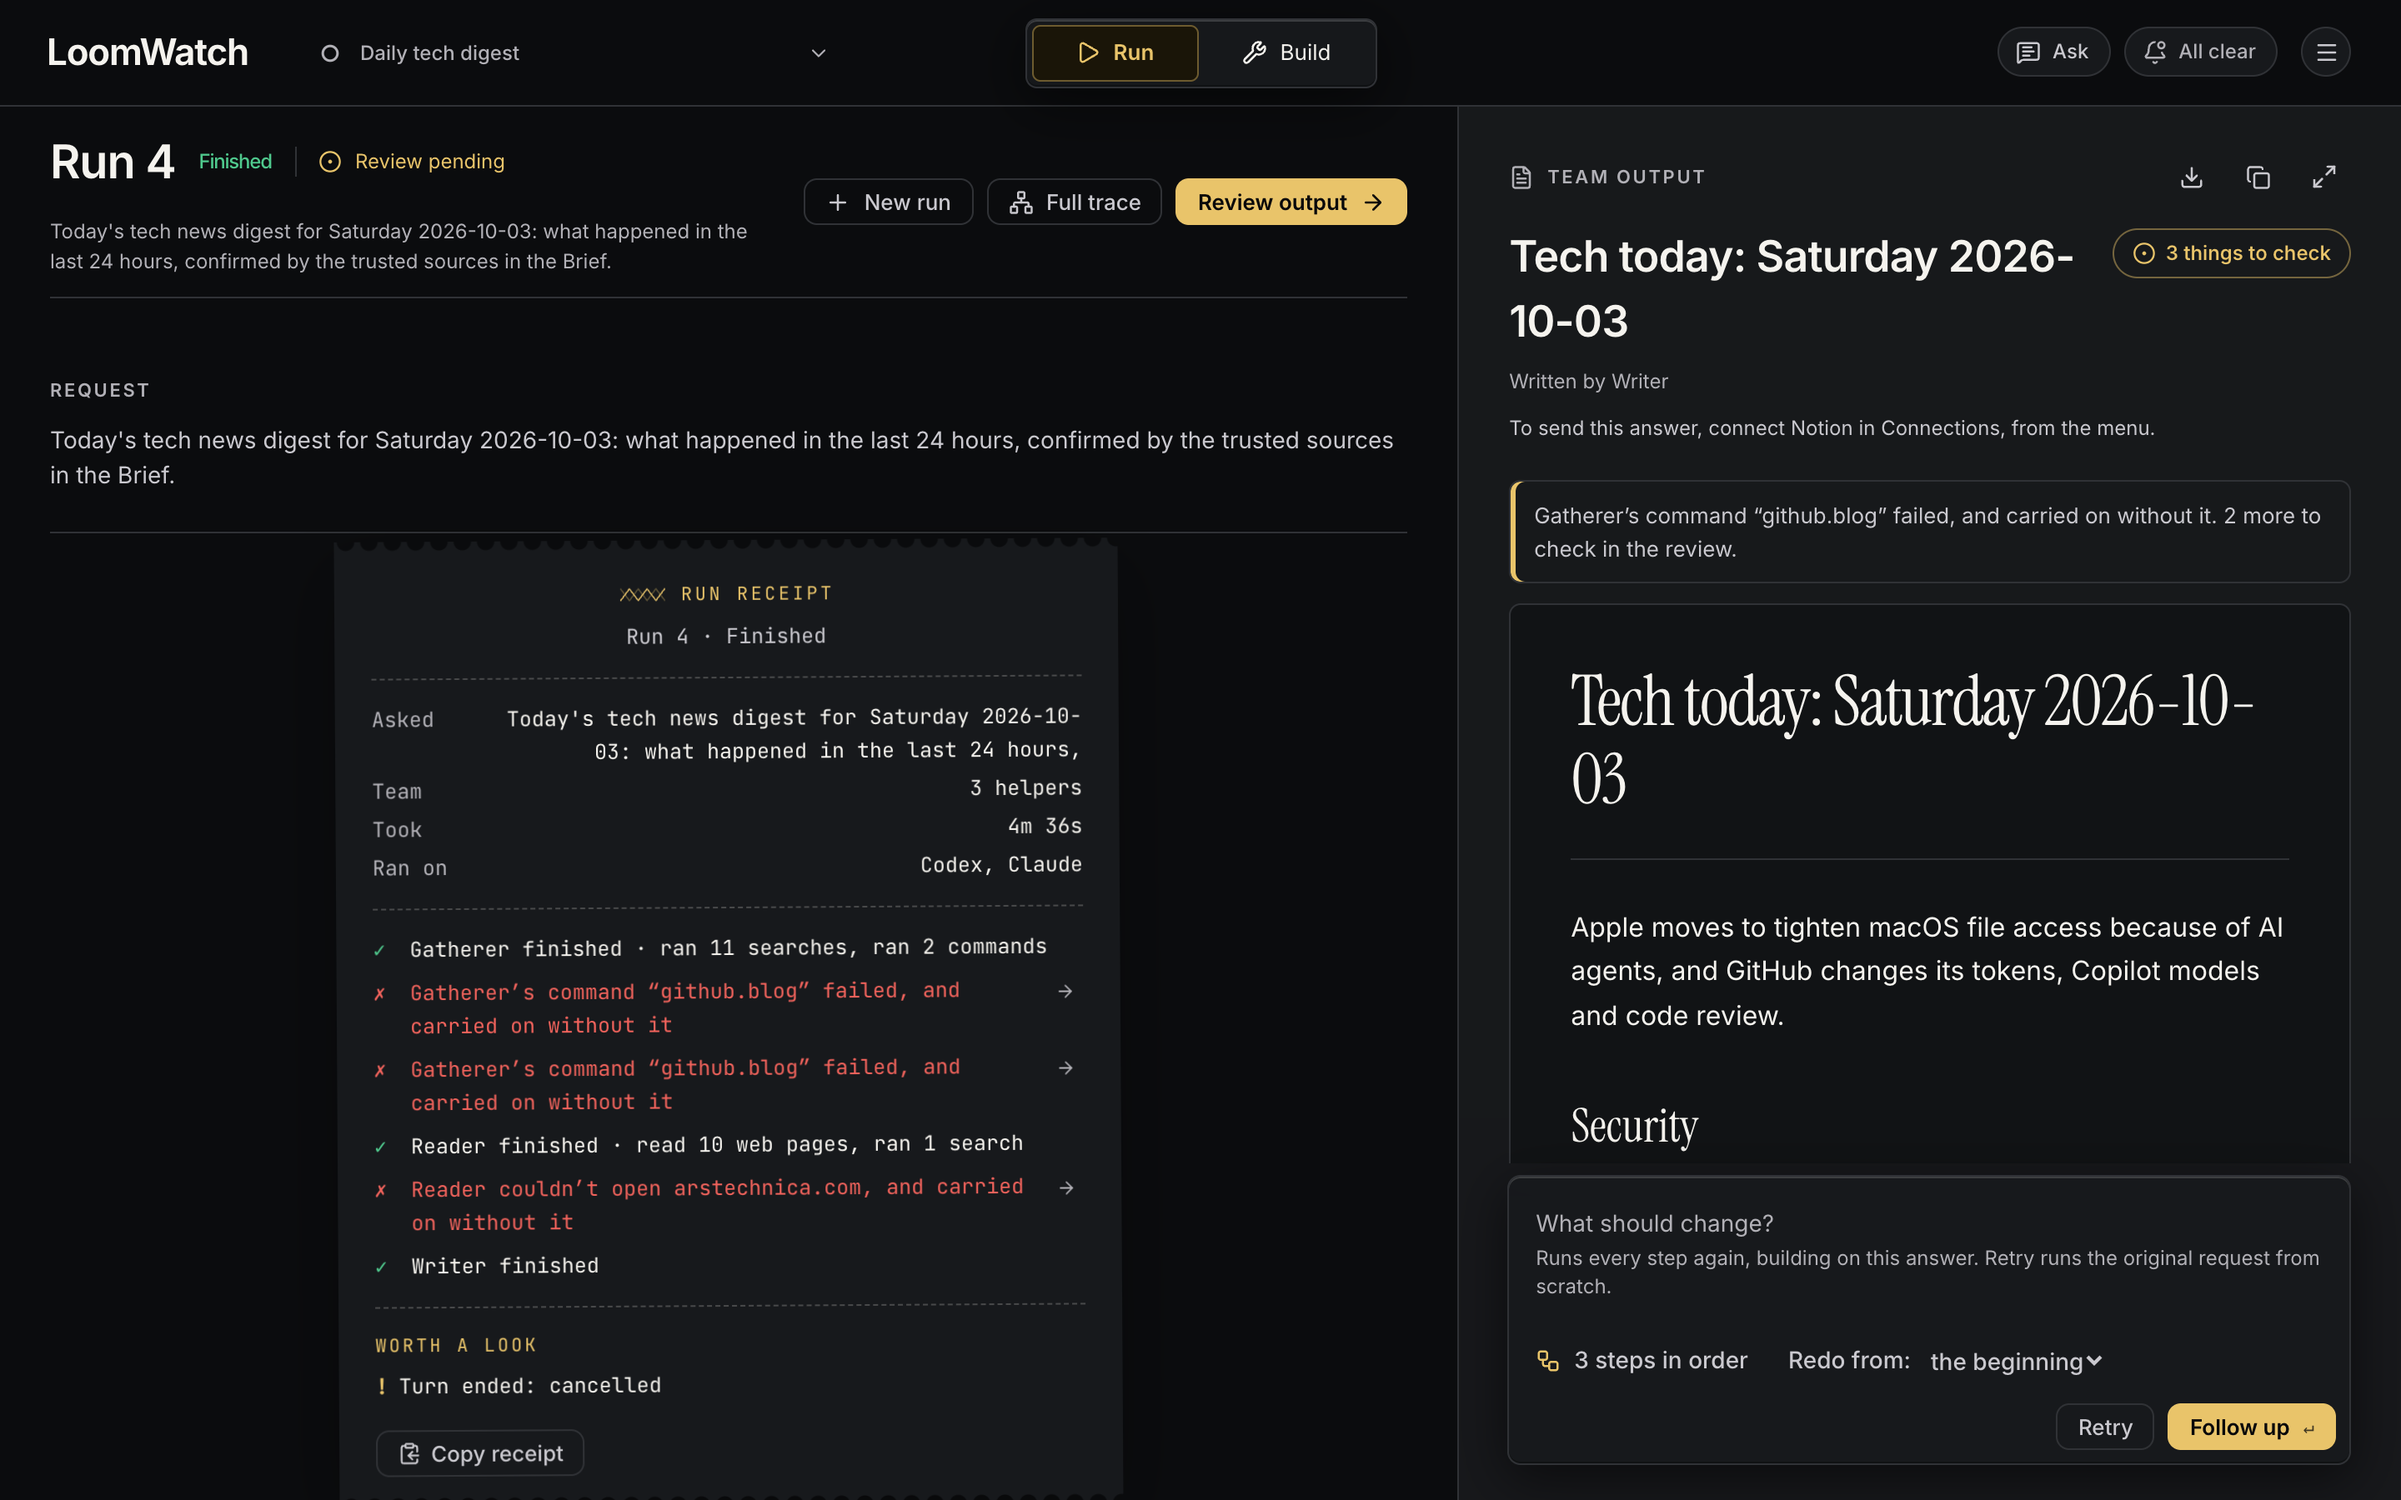
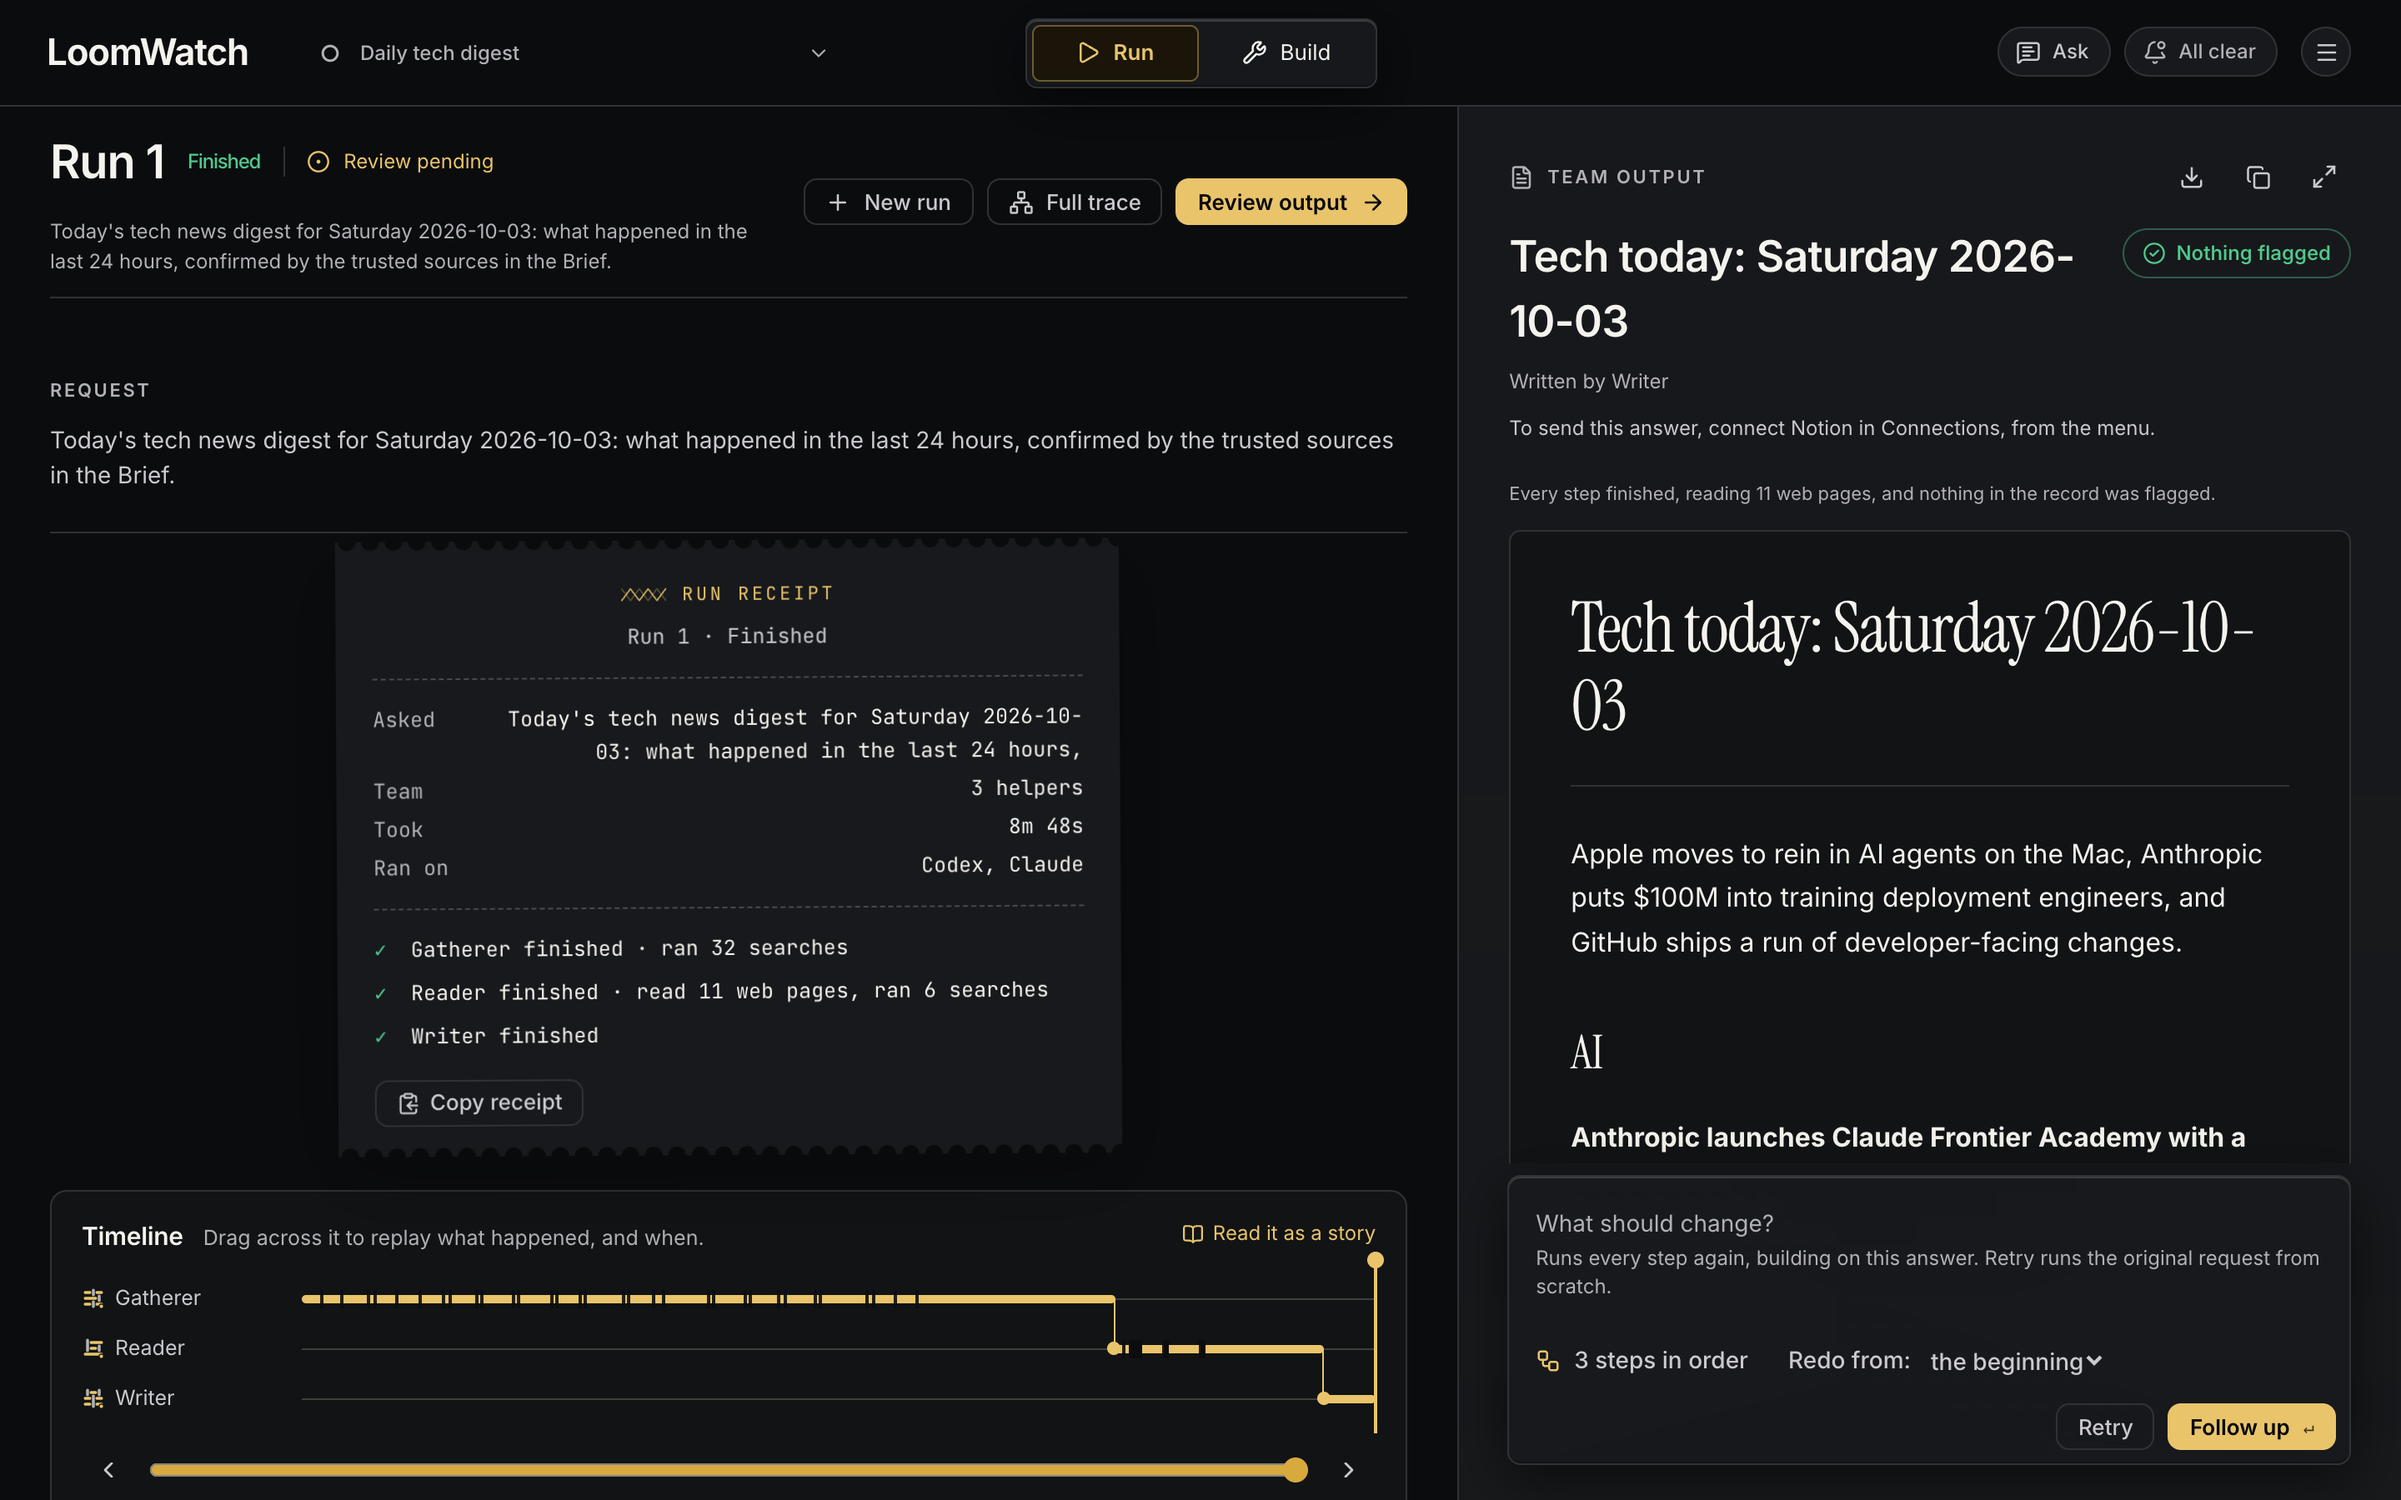
Publish the landing page from c6361a9

diff --git a/usecases.html b/usecases.html
@@ -145,7 +145,7 @@
         <div class="uc-body">
           <dl class="fine">
             <div><dt>Your sources, in a file</dt><dd>The trusted list and the rule for keeping a story sit in the team's Brief, a Markdown file every agent reads. Edit it, and tomorrow's run follows it.</dd></div>
-            <div><dt>Two sources, or it's out</dt><dd>A story stays only if its own primary source says it, or two independent newsrooms report it. Reader opens every source, not just the headline.</dd></div>
+            <div><dt>Two sources, or it's out</dt><dd>A story stays only if its own primary source says it, or two independent newsrooms report it. Reader opens every source it can and checks the rest through web search, never on the headline alone.</dd></div>
             <div><dt>It runs on its own</dt><dd>No stop for you. In a scheduled run anything not switched on is declined, so only web search is on, and only for Gatherer and Reader.</dd></div>
             <div><dt>Two companies at one desk</dt><dd>Codex gathers, Claude reads and writes, so one model never decides alone what's true.</dd></div>
             <div><dt>Teach it once</dt><dd>Write "fewer funding stories" in the Notebook and keep it. Every later digest reads it.</dd></div>
@@ -154,12 +154,12 @@
             <div class="io-ask"><span class="micro">The request it runs</span><p>Today's tech news digest for <span class="ph">{{weekday}}</span> <span class="ph">{{date}}</span>: what happened in the last 24 hours, confirmed by the trusted sources in the Brief.</p></div>
             <div class="io-out">
               <span class="micro">That run, by the numbers</span>
-              <ol class="funnel" aria-label="What happened to the stories in its first real run">
-                <li><b>10</b><span>stories gathered from the list</span></li>
-                <li><b>5</b><span>kept by Reader under the rule</span></li>
-                <li class="kept"><b>5</b><span>in the digest, in 4 min 36 s</span></li>
+              <ol class="funnel" aria-label="What happened to the stories in that run">
+                <li><b>12</b><span>stories gathered from the list</span></li>
+                <li><b>7</b><span>kept by Reader under the rule</span></li>
+                <li class="kept"><b>7</b><span>in the digest, in 8 min 48 s</span></li>
               </ol>
-              <p class="io-foot io-real">Gatherer tried to run <code>curl</code> twice, and neither ran: commands are off, and nobody was there to ask. The receipt says so, and the digest keeps only what Reader could confirm.</p>
+              <p class="io-foot io-real">Seven of the trusted newsrooms won't let Claude open their pages. The Brief names them, so Reader checks their stories through web search instead. The receipt shows every step finished, with nothing flagged.</p>
               <span class="micro io-sub">What comes back <i>example</i></span>
               <div class="digest">
                 <h4>AI</h4>

diff --git a/usecases.js b/usecases.js
@@ -120,8 +120,8 @@
       cap: 'Build: “Every day at 9:00 AM” leads the sentence, and a schedule card starts the canvas.',
     },
     'digest-done': {
-      alt: 'LoomWatch Run view of a scheduled run: a run receipt listing Gatherer’s 11 searches and two failed commands, Reader reading 10 web pages and failing to open one site, and Writer finished, beside the digest titled Tech today, marked 3 things to check.',
-      cap: 'Its scheduled run, finished: the receipt counts the searches and pages, and flags the two commands that never ran and the one page Reader couldn’t open, beside the digest it wrote.',
+      alt: 'LoomWatch Run view of a scheduled run: a run receipt reading Took 8m 48s, Ran on Codex and Claude, with Gatherer finished after 32 searches, Reader finished after reading 11 web pages and 6 searches, and Writer finished, beside the digest titled Tech today, marked Nothing flagged.',
+      cap: 'Its scheduled run, finished: the receipt counts every search and page each agent used, beside the digest it wrote, with nothing flagged.',
     },
   }
   function paintShots() {

diff --git a/usecases/daily-tech-digest.brief/sources.md b/usecases/daily-tech-digest.brief/sources.md
@@ -27,6 +27,13 @@ its source: follow them to a primary source or a newsroom above.
 A story makes the digest only if its primary source says it, or at least two independent
 newsrooms above report it. For a paywalled page, use only what is visible without paying.
 
+## Sites Claude can't open
+
+Reuters, the Associated Press, Bloomberg, the Financial Times, The Verge, Ars Technica, Wired and
+OpenAI's own site refuse to let Claude open their pages. An agent on Claude shouldn't try: confirm
+what they report through web search instead, from the text the search shows, never the headline
+alone.
+
 ## What I care about
 
 - **Most:** AI models and tools, developer tools, chips and hardware, security incidents, and
